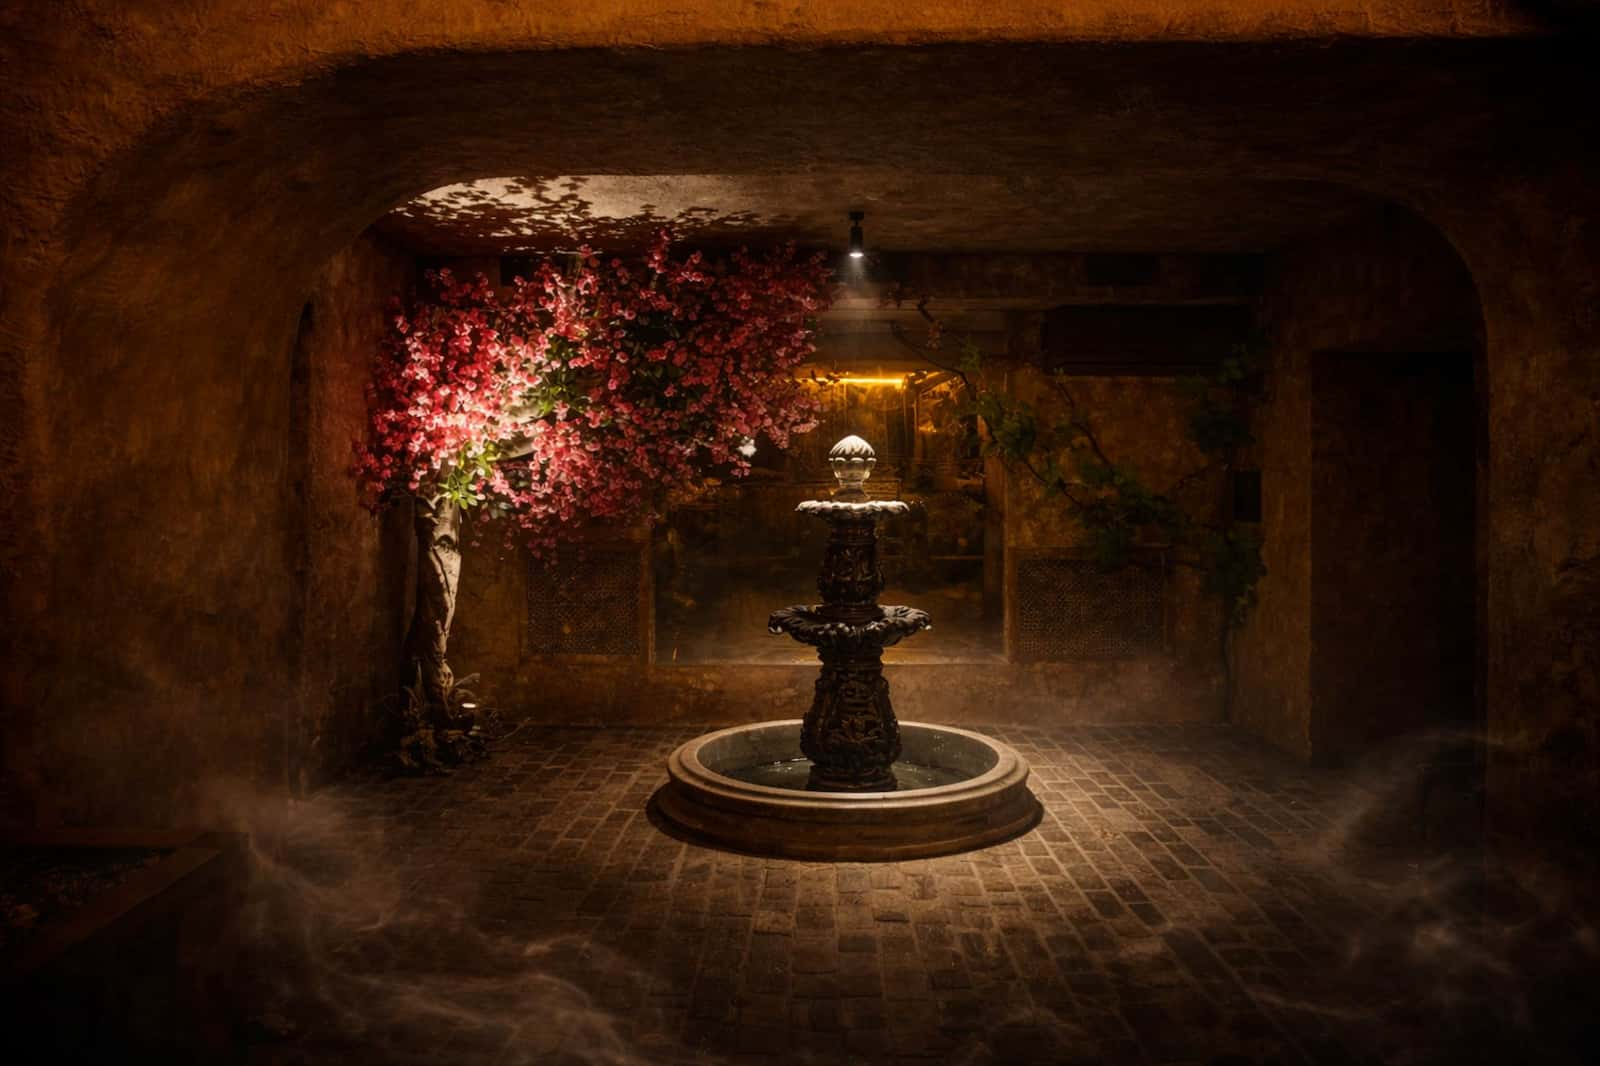
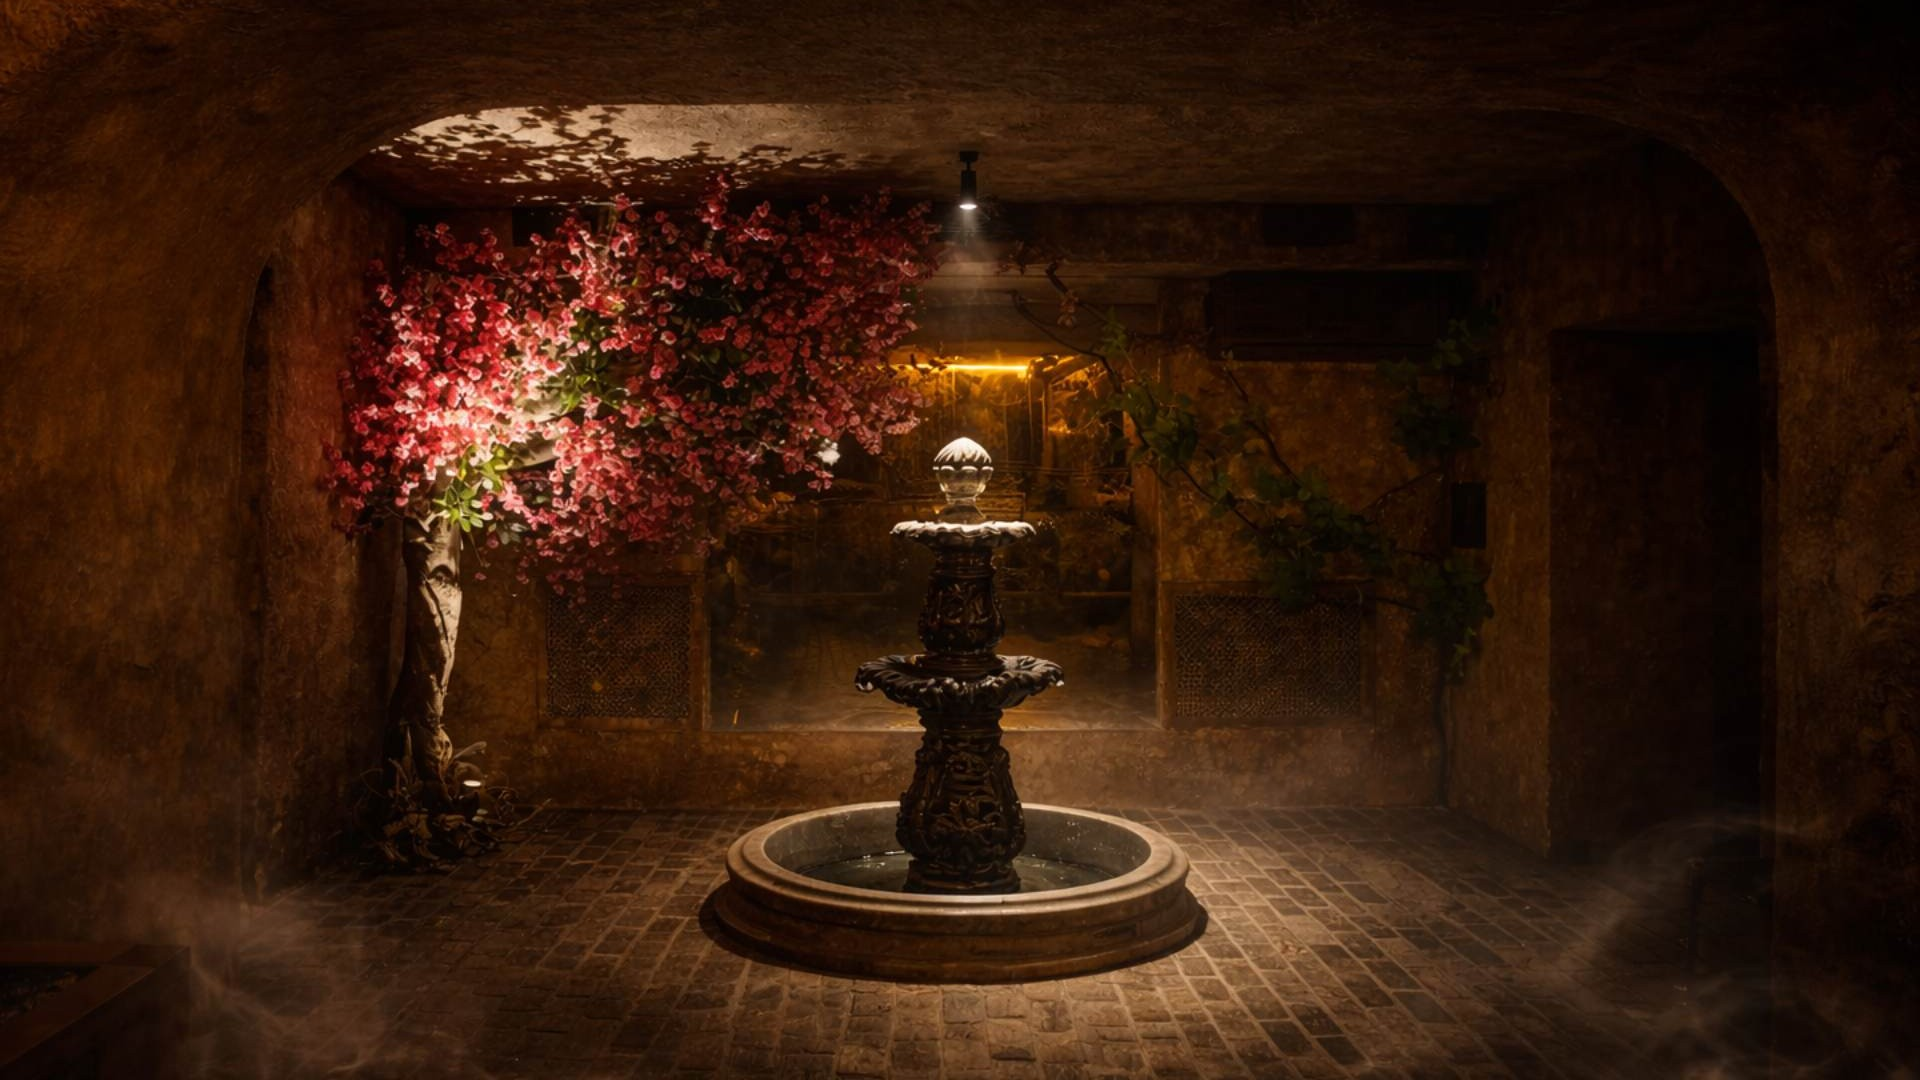
Enable webp uploads and update hero image

diff --git a/public_html/admiralteyskaya/couch/includes/fileuploader/config.php b/public_html/admiralteyskaya/couch/includes/fileuploader/config.php
@@ -121,14 +121,14 @@ $Config['ChmodOnFolderCreate'] = 0777 ;
 
 */
 
-$Config['AllowedExtensions']['File']	= array('7z', 'aiff', 'asf', 'avi', 'bmp', 'csv', 'doc', 'fla', 'flv', 'gif', 'gz', 'gzip', 'jpeg', 'jpg', 'mid', 'mov', 'mp3', 'mp4', 'mpc', 'mpeg', 'mpg', 'ods', 'odt', 'pdf', 'png', 'ppt', 'pxd', 'qt', 'ram', 'rar', 'rm', 'rmi', 'rmvb', 'rtf', 'sdc', 'sitd', 'swf', 'sxc', 'sxw', 'tar', 'tgz', 'tif', 'tiff', 'txt', 'vsd', 'wav', 'wma', 'wmv', 'xls', 'xml', 'zip') ;
+$Config['AllowedExtensions']['File']	= array('7z', 'aiff', 'asf', 'avi', 'bmp', 'csv', 'doc', 'fla', 'flv', 'gif', 'gz', 'gzip', 'jpeg', 'jpg', 'mid', 'mov', 'mp3', 'mp4', 'mpc', 'mpeg', 'mpg', 'ods', 'odt', 'pdf', 'png', 'ppt', 'pxd', 'qt', 'ram', 'rar', 'rm', 'rmi', 'rmvb', 'rtf', 'sdc', 'sitd', 'swf', 'sxc', 'sxw', 'tar', 'tgz', 'tif', 'tiff', 'txt', 'vsd', 'wav', 'webp', 'wma', 'wmv', 'xls', 'xml', 'zip') ;
 $Config['DeniedExtensions']['File']		= array() ;
 $Config['FileTypesPath']['File']		= $Config['UserFilesPath'] . 'file/' ;
 $Config['FileTypesAbsolutePath']['File']= ($Config['UserFilesAbsolutePath'] == '') ? '' : $Config['UserFilesAbsolutePath'].'file/' ;
 $Config['QuickUploadPath']['File']		= $Config['UserFilesPath'] ;
 $Config['QuickUploadAbsolutePath']['File']= $Config['UserFilesAbsolutePath'] ;
 
-$Config['AllowedExtensions']['Image']	= array('bmp','gif','jpeg','jpg','png') ;
+$Config['AllowedExtensions']['Image']	= array('bmp','gif','jpeg','jpg','png','webp') ;
 $Config['DeniedExtensions']['Image']	= array() ;
 $Config['FileTypesPath']['Image']		= $Config['UserFilesPath'] . 'image/' ;
 $Config['FileTypesAbsolutePath']['Image']= ($Config['UserFilesAbsolutePath'] == '') ? '' : $Config['UserFilesAbsolutePath'].'image/' ;
@@ -142,7 +142,7 @@ $Config['FileTypesAbsolutePath']['Flash']= ($Config['UserFilesAbsolutePath'] == 
 $Config['QuickUploadPath']['Flash']		= $Config['UserFilesPath'] ;
 $Config['QuickUploadAbsolutePath']['Flash']= $Config['UserFilesAbsolutePath'] ;
 
-$Config['AllowedExtensions']['Media']	= array('aiff', 'asf', 'avi', 'bmp', 'fla', 'flv', 'gif', 'jpeg', 'jpg', 'mid', 'mov', 'mp3', 'mp4', 'mpc', 'mpeg', 'mpg', 'png', 'qt', 'ram', 'rm', 'rmi', 'rmvb', 'swf', 'tif', 'tiff', 'wav', 'wma', 'wmv') ;
+$Config['AllowedExtensions']['Media']	= array('aiff', 'asf', 'avi', 'bmp', 'fla', 'flv', 'gif', 'jpeg', 'jpg', 'mid', 'mov', 'mp3', 'mp4', 'mpc', 'mpeg', 'mpg', 'png', 'qt', 'ram', 'rm', 'rmi', 'rmvb', 'swf', 'tif', 'tiff', 'wav', 'webp', 'wma', 'wmv') ;
 $Config['DeniedExtensions']['Media']	= array() ;
 $Config['FileTypesPath']['Media']		= $Config['UserFilesPath'] . 'media/' ;
 $Config['FileTypesAbsolutePath']['Media']= ($Config['UserFilesAbsolutePath'] == '') ? '' : $Config['UserFilesAbsolutePath'].'media/' ;

diff --git a/public_html/admiralteyskaya/couch/includes/kcfinder/lib/class_gd.php b/public_html/admiralteyskaya/couch/includes/kcfinder/lib/class_gd.php
@@ -60,15 +60,16 @@ class gd {
 
         } elseif (false !== (list($width, $height, $type) = @getimagesize($image))) {
             $image =
+                (defined('IMAGETYPE_WEBP') && ($type == IMAGETYPE_WEBP) && function_exists('imagecreatefromwebp')) ? @imagecreatefromwebp($image) : (
                 ($type == IMAGETYPE_GIF)      ? @imagecreatefromgif($image)  : (
                 ($type == IMAGETYPE_WBMP)     ? @imagecreatefromwbmp($image) : (
                 ($type == IMAGETYPE_JPEG)     ? @imagecreatefromjpeg($image) : (
                 ($type == IMAGETYPE_JPEG2000) ? @imagecreatefromjpeg($image) : (
                 ($type == IMAGETYPE_PNG)      ? imagecreatefrompng($image)  : (
                 ($type == IMAGETYPE_XBM)      ? @imagecreatefromxbm($image)  : false
-            )))));
+            ))))));
 
-            if ($type == IMAGETYPE_PNG)
+            if ($type == IMAGETYPE_PNG || (defined('IMAGETYPE_WEBP') && $type == IMAGETYPE_WEBP))
                 imagealphablending($image, false);
         }
 

diff --git a/public_html/admiralteyskaya/couch/download.php b/public_html/admiralteyskaya/couch/download.php
@@ -217,6 +217,7 @@
             'vcd' => 'application/x-cdlink',
             'vrml' => 'model/vrml',
             'wav' => 'audio/x-wav',
+            'webp' => 'image/webp',
             'webm' => 'video/webm',
             'wbmp' => 'image/vnd.wap.wbmp',
             'wbxml' => 'application/vnd.wap.wbxml',
@@ -249,7 +250,8 @@
             'gif' => 'image/gif',
             'jpeg' => 'image/jpeg',
             'jpg' => 'image/jpeg',
-            'png' => 'image/png'
+            'png' => 'image/png',
+            'webp' => 'image/webp'
         );
     }
 

diff --git a/public_html/admiralteyskaya/couch/includes/kcfinder/core/browser.php b/public_html/admiralteyskaya/couch/includes/kcfinder/core/browser.php
@@ -155,13 +155,15 @@ class browser extends uploader {
             if ($image->init_error)
                 $this->sendDefaultThumb($file);
             $browsable = array(IMAGETYPE_GIF, IMAGETYPE_JPEG, IMAGETYPE_PNG);
+            if (defined('IMAGETYPE_WEBP')) $browsable[] = IMAGETYPE_WEBP;
             if (in_array($image->type, $browsable) &&
                 ($image->get_width() <= $this->config['thumbWidth']) &&
                 ($image->get_height() <= $this->config['thumbHeight'])
             ) {
                 $type =
+                    (defined('IMAGETYPE_WEBP') && ($image->type == IMAGETYPE_WEBP)) ? "webp" : (
                     ($image->type == IMAGETYPE_GIF) ? "gif" : (
-                    ($image->type == IMAGETYPE_PNG) ? "png" : "jpeg");
+                    ($image->type == IMAGETYPE_PNG) ? "png" : "jpeg"));
                 $type = "image/$type";
                 httpCache::file($file, $type);
             } else

diff --git a/public_html/admiralteyskaya/couch/includes/fileuploader/util.php b/public_html/admiralteyskaya/couch/includes/fileuploader/util.php
@@ -186,7 +186,7 @@ function IsImageValid( $filePath, $extension )
 		return -1;
 	}
 
-	$imageCheckExtensions = array('gif', 'jpeg', 'jpg', 'png', 'swf', 'psd', 'bmp', 'iff');
+	$imageCheckExtensions = array('gif', 'jpeg', 'jpg', 'png', 'webp', 'swf', 'psd', 'bmp', 'iff');
 
 	// version_compare is available since PHP4 >= 4.0.7
 	if ( function_exists( 'version_compare' ) ) {

diff --git a/public_html/admiralteyskaya/header.php b/public_html/admiralteyskaya/header.php
@@ -18,7 +18,7 @@
 
     <cms:editable name='group_hero' label='Главный экран (Hero)' type='group' />
     <cms:editable name='hero_tagline' label='Слоган под лого' group='group_hero' type='text'>Магический вечнозеленый сад в самом сердце Санкт-Петербурга</cms:editable>
-    <cms:editable name='hero_bg_desk' label='Фон (Десктоп)' group='group_hero' type='image'>https://misterpufik.ru/garden.jpg</cms:editable>
+    <cms:editable name='hero_bg_desk' label='Фон (Десктоп)' group='group_hero' type='image'>:garden-main.jpg</cms:editable>
     <cms:editable name='hero_bg_mob' label='Фон (Мобилка)' group='group_hero' type='image'>https://misterpufik.ru/log4.jpg</cms:editable>
 
 </cms:template>

diff --git a/public_html/admiralteyskaya/couch/includes/kcfinder/core/uploader.php b/public_html/admiralteyskaya/couch/includes/kcfinder/core/uploader.php
@@ -602,6 +602,7 @@ class uploader {
             ($gd->get_height() <= $this->config['thumbHeight'])
         ) {
             $browsable = array(IMAGETYPE_GIF, IMAGETYPE_JPEG, IMAGETYPE_PNG);
+            if (defined('IMAGETYPE_WEBP')) $browsable[] = IMAGETYPE_WEBP;
             // Drop only browsable types
             if (in_array($gd->type, $browsable))
                 return true;

diff --git a/public_html/admiralteyskaya/couch/includes/kcfinder/lib/helper_file.php b/public_html/admiralteyskaya/couch/includes/kcfinder/lib/helper_file.php
@@ -91,6 +91,7 @@ class file {
         'txt'   => 'text/plain',
         'wav'   => 'audio/x-wav',
         'wbxml' => 'application/wbxml',
+        'webp'  => 'image/webp',
         'webm'  => 'video/webm',
         'wmlc'  => 'application/wmlc',
         'word'  => 'application/msword',